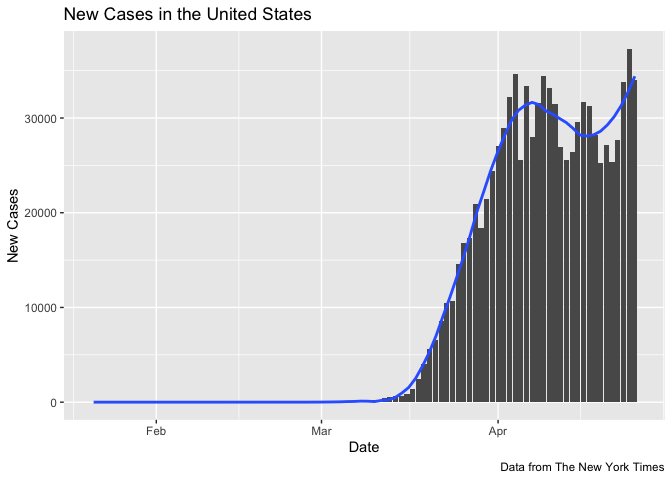
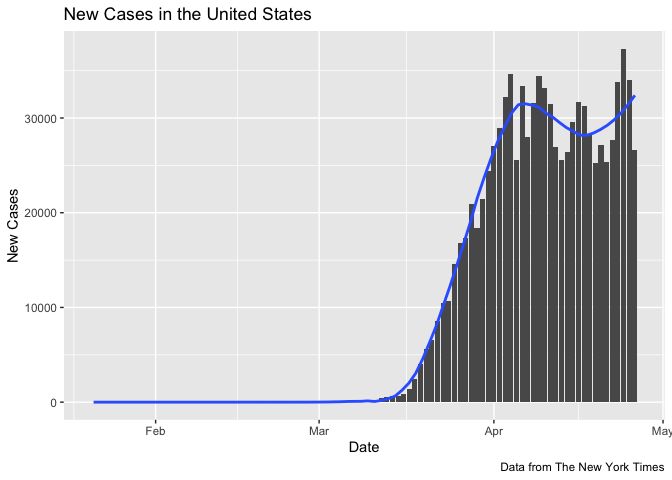
Added current date

diff --git a/Metro_Atlanta_COVID.md b/Metro_Atlanta_COVID.md
@@ -14,8 +14,10 @@ and deaths in the United States.
 
 It’s hard to know how to interpret these numbers since there are major
 known unknowns. Neither confirmed cases nor deaths can be said to be
-reliable counts of the true
-numbers.
+reliable counts of the true numbers.
+
+Data current as of April 27,
+2020
 
 # Metro Atlanta
 
